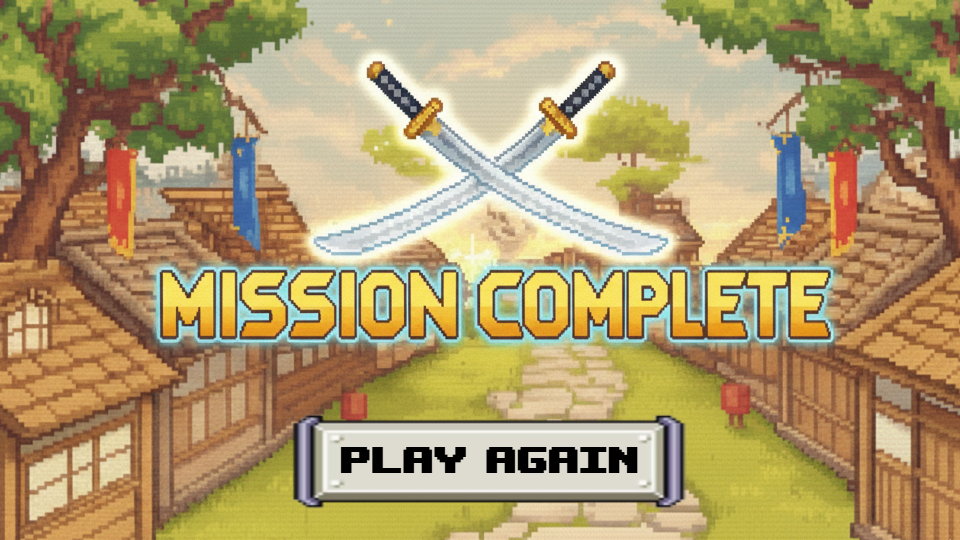
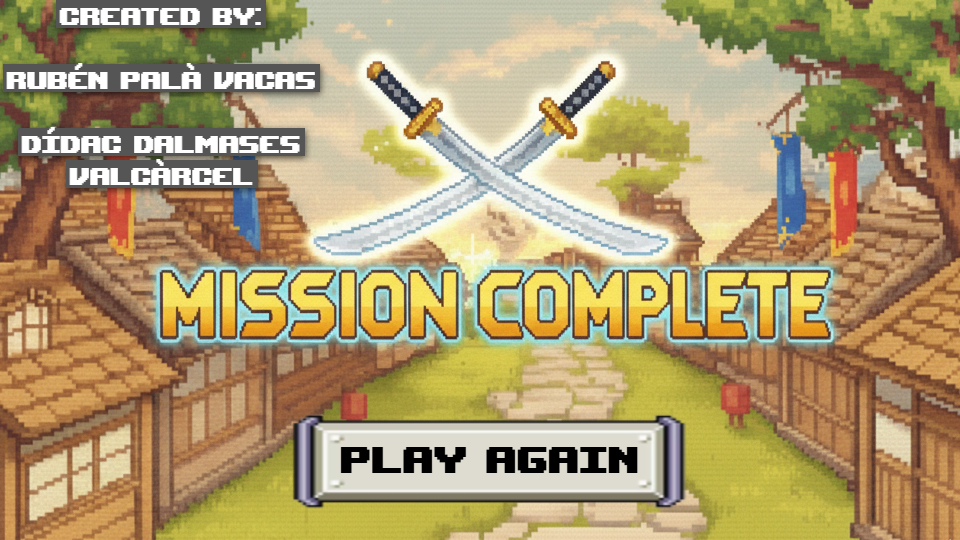
Player - Add cheats, reorder keybinds, add death and win menus

Changed region(s): [[0.0, 0.237, 0.3438, 0.3556], [0.0, 0.1185, 0.3438, 0.1778], [0.0312, 0.0, 0.2812, 0.0593]]

diff --git a/NinjaGear/Player.cpp b/NinjaGear/Player.cpp
@@ -26,6 +26,7 @@ void Player::init(const glm::ivec2 &tileMapPos, ShaderProgram &shaderProgram)
 	maxHealth = 5.0f;
 	rank = 0;
 	baseSpeed = 2.0f;
+	godMode = false;
 	activeBuffs.clear();
 	showAura = false;
 	itemQuantities.clear();
@@ -260,7 +261,7 @@ void Player::update(int deltaTime)
 		if (sprite->animation() != DANCE)
 			sprite->changeAnimation(DANCE);
 	}
-	else if (Game::instance().getKey(GLFW_KEY_G))  // ATTACK
+	else if (Game::instance().getKey(GLFW_KEY_Z))  // ATTACK
 	{
 		Item* weapon = getCurrentWeapon();
 		bool usingBow = (weapon != nullptr && weapon->getName() == "BOW");
@@ -323,7 +324,7 @@ void Player::render(const glm::mat4& view)
 
 	Item* weapon = getCurrentWeapon();
 	bool isAttackingWithBow = (weapon != nullptr && weapon->getName() == "BOW" &&
-		Game::instance().getKey(GLFW_KEY_G) && !Game::instance().getKey(GLFW_KEY_DOWN) && !Game::instance().getKey(GLFW_KEY_UP)
+		Game::instance().getKey(GLFW_KEY_Z) && !Game::instance().getKey(GLFW_KEY_DOWN) && !Game::instance().getKey(GLFW_KEY_UP)
 		&& !Game::instance().getKey(GLFW_KEY_RIGHT) && !Game::instance().getKey(GLFW_KEY_LEFT));
 
 	if (isAttackingWithBow) {
@@ -391,6 +392,8 @@ bool Player::collisionMoveUp(const glm::ivec2& pos, const glm::ivec2& size) cons
 
 void Player::takeDamage(int damage)
 {
+	if (isGodModeOn())
+		return;
 	if (invulnerable || health <= 0) {
 		return;
 	}
@@ -668,4 +671,44 @@ void Player::shootBowProjectile()
 	}
 
 	cout << "Shot arrow! Remaining: " << getItemQuantity("ARROW") << endl;
+}
+
+void Player::giveAllItems() {
+	cout << "=== GIVING ALL ITEMS ===" << endl;
+
+	for (auto& item : itemInventory) {
+		delete item;
+	}
+	itemInventory.clear();
+	itemQuantities.clear();
+
+	//MEDIPACK
+	Item* medipack = new Item();
+	medipack->setItem("MEDIPACK", 1, "Restores 50 health points.", glm::vec2(0, 0), false, 16);
+	itemInventory.push_back(medipack);
+	itemQuantities["MEDIPACK"] = 1;
+
+	//SPEED POTION
+	Item* speedPotion = new Item();
+	speedPotion->setItem("SPEED POTION", 1, "Increases speed for 10 seconds.", glm::vec2(0, 0), false, 16);
+	itemInventory.push_back(speedPotion);
+	itemQuantities["SPEED POTION"] = 1;
+
+	//ARROW
+	Item* arrow = new Item();
+	arrow->setItem("ARROW", 1, "Projectile for bow", glm::vec2(0, 0), false, 16);
+	itemInventory.push_back(arrow);
+	itemQuantities["ARROW"] = 5; // Give 5 arrows
+
+	//BOW weapon
+	Item* bow = new Item();
+	bow->setItem("BOW", 1, "Long range weapon.", glm::vec2(0, 0), true, 16);
+	weaponInventory.push_back(bow);
+
+
+	if (!itemInventory.empty()) currentItemIndex = 0;
+
+	cout << "Given: MEDIPACK, SPEED POTION, ARROW (x5), BOW" << endl;
+	cout << "Total items: " << itemInventory.size() << endl;
+	cout << "Total weapons: " << weaponInventory.size() << endl;
 }

diff --git a/NinjaGear/Game.cpp b/NinjaGear/Game.cpp
@@ -31,11 +31,15 @@ void Game::init(int screenWidth, int screenHeight)
 
 	Menu* deathMenu = new Menu(MenuType::DEATH);
 	deathMenu->setMenuImage("images/DeathMenu.png");
+
+	Menu* winMenu = new Menu(MenuType::CREDITS);
+	winMenu->setMenuImage("images/WinMenu.png");
 	
 
 	addScene("menu", startMenu);
 	addScene("settings",settingsMenu);
 	addScene("death",deathMenu);
+	addScene("win", winMenu);
 
 
 	/* ------------- */
@@ -110,7 +114,7 @@ void Game::init(int screenWidth, int screenHeight)
 bool Game::update(int deltaTime)
 {
 	if (player->getHealth() == 0) {
-		setCurrentScene("death");
+		setCurrentScene("win");
 
 		player->setHealth(player->getMaxHealth());
 	}
@@ -157,13 +161,24 @@ void Game::keyPressed(int key)
 			}
 		}
 	}
-  else if (key == GLFW_KEY_Z) {
-		if(currentScene == levels["dungeon"]) setCurrentScene("Jungle1");
+	//interior tp cheat
+	else if (key == GLFW_KEY_K) {
+		if (currentScene == levels["dungeon"]) setCurrentScene("Jungle1");
 		else setCurrentScene("dungeon");
-  }
-	else if (key == GLFW_KEY_X) // Change sprite
-		player->setSpriteSheet("images/characters/ninja_blue/SpriteSheet.png");
-	else if (key == GLFW_KEY_G) 
+	}
+	else if (key == GLFW_KEY_Z)
+		player->onPunchKeyPressed();
+	//items cheat
+	else if (key == GLFW_KEY_I)
+		player->giveAllItems();
+	//heal cheat
+	else if (key == GLFW_KEY_H)
+		player->setHealth(player->getMaxHealth());
+	//god mode cheat
+	else if (key == GLFW_KEY_G)
+		player->toggleGodMode();
+	//boss tp cheat
+	else if (key == GLFW_KEY_B) 
 		player->onPunchKeyPressed();
 	keys[key] = true;
 }

diff --git a/NinjaGear/Level.cpp b/NinjaGear/Level.cpp
@@ -61,7 +61,8 @@ void Level::reStartLevel() {
 	initializeEnemies();
 	initializeItems();
 	initializeMusic();
-
+	introMessagesDisplayed = false;
+	introMessageDelayTimer = 500;
 }
 
 void Level::init() 
@@ -119,8 +120,22 @@ void Level::update(int deltaTime)
 	}
 
 	checkItemPickUp();
-
 	updateCameraSector();
+
+	if (uiManager && !introMessagesDisplayed)
+	{
+		introMessageDelayTimer -= deltaTime;
+		if (introMessageDelayTimer <= 0)
+		{
+			uiManager->showTemporaryMessage("HELLO SOLID NINJA, KILL ALL ENEMIES",
+				glm::vec2(320, 160), 1.f, glm::vec3(0.f, 0.f, 0.f), 4000);
+
+			uiManager->showTemporaryMessage("AND WE WON'T KILL YOU...",
+				glm::vec2(320, 200), 1.f, glm::vec3(1.f, 0.f, 0.f), 5000);
+
+			introMessagesDisplayed = true;
+		}
+	}
 }
 
 void Level::setUIManager(UIManager* uiManager)

diff --git a/NinjaGear/Player.h b/NinjaGear/Player.h
@@ -80,6 +80,11 @@ public:
 	int getItemQuantity(const std::string& itemName) const;
 
 	void setProjectileManager(ProjectileManager* manager) { projectileManager = manager; }
+	//items cheat
+	void giveAllItems();
+	//godmode cheat
+	bool isGodModeOn() const { return godMode; }
+	void toggleGodMode() { godMode = !godMode; }
 private:
 	int currentFacingDirection = STAND_DOWN; // Track last direction
 	int lastFrameAnimation = -1;
@@ -137,6 +142,8 @@ private:
 	void shootBowProjectile();
 	ProjectileManager* projectileManager = nullptr;
 	bool lastFrameWasAttackingWithBow = false;
+	//godmode cheat
+	bool godMode = false;
 public:
 	~Player() {
 		for (Item* item : itemInventory) delete item;

diff --git a/NinjaGear/Menu.cpp b/NinjaGear/Menu.cpp
@@ -41,7 +41,7 @@ void Menu::update(int deltaTime)
 void Menu::render()
 {
     MenuScene::render();
-    if (type == MenuType::DEATH) {
+    if (type == MenuType::DEATH || type == MenuType::CREDITS) {
         if (Game::instance().getKey(GLFW_KEY_ESCAPE)) {
             Game::instance().setCurrentScene("menu");
         }
@@ -60,6 +60,9 @@ void Menu::setUpButtons() {
     }
     if (type == MenuType::DEATH) {
         addButton(glm::vec2(0.325, 0.73), glm::vec2(0.38f, 0.116f), "start");
+    }
+    if (type == MenuType::CREDITS) {
+        addButton(glm::vec2(0.328, 0.78), glm::vec2(0.36f, 0.12f), "start");
     }
 }
 

diff --git a/NinjaGear/Level.h b/NinjaGear/Level.h
@@ -100,6 +100,8 @@ class Level :
         int sectorHeight = 0;
         float cameraOffsetX = 0.0f;
         float cameraOffsetY = 0.0f;
+        bool introMessagesDisplayed = false;
+        int introMessageDelayTimer = 500;
         // Combat manager
         static constexpr float PLAYER_SIZE = 16.0f;
         static constexpr float ENEMY_SIZE = 16.0f;
